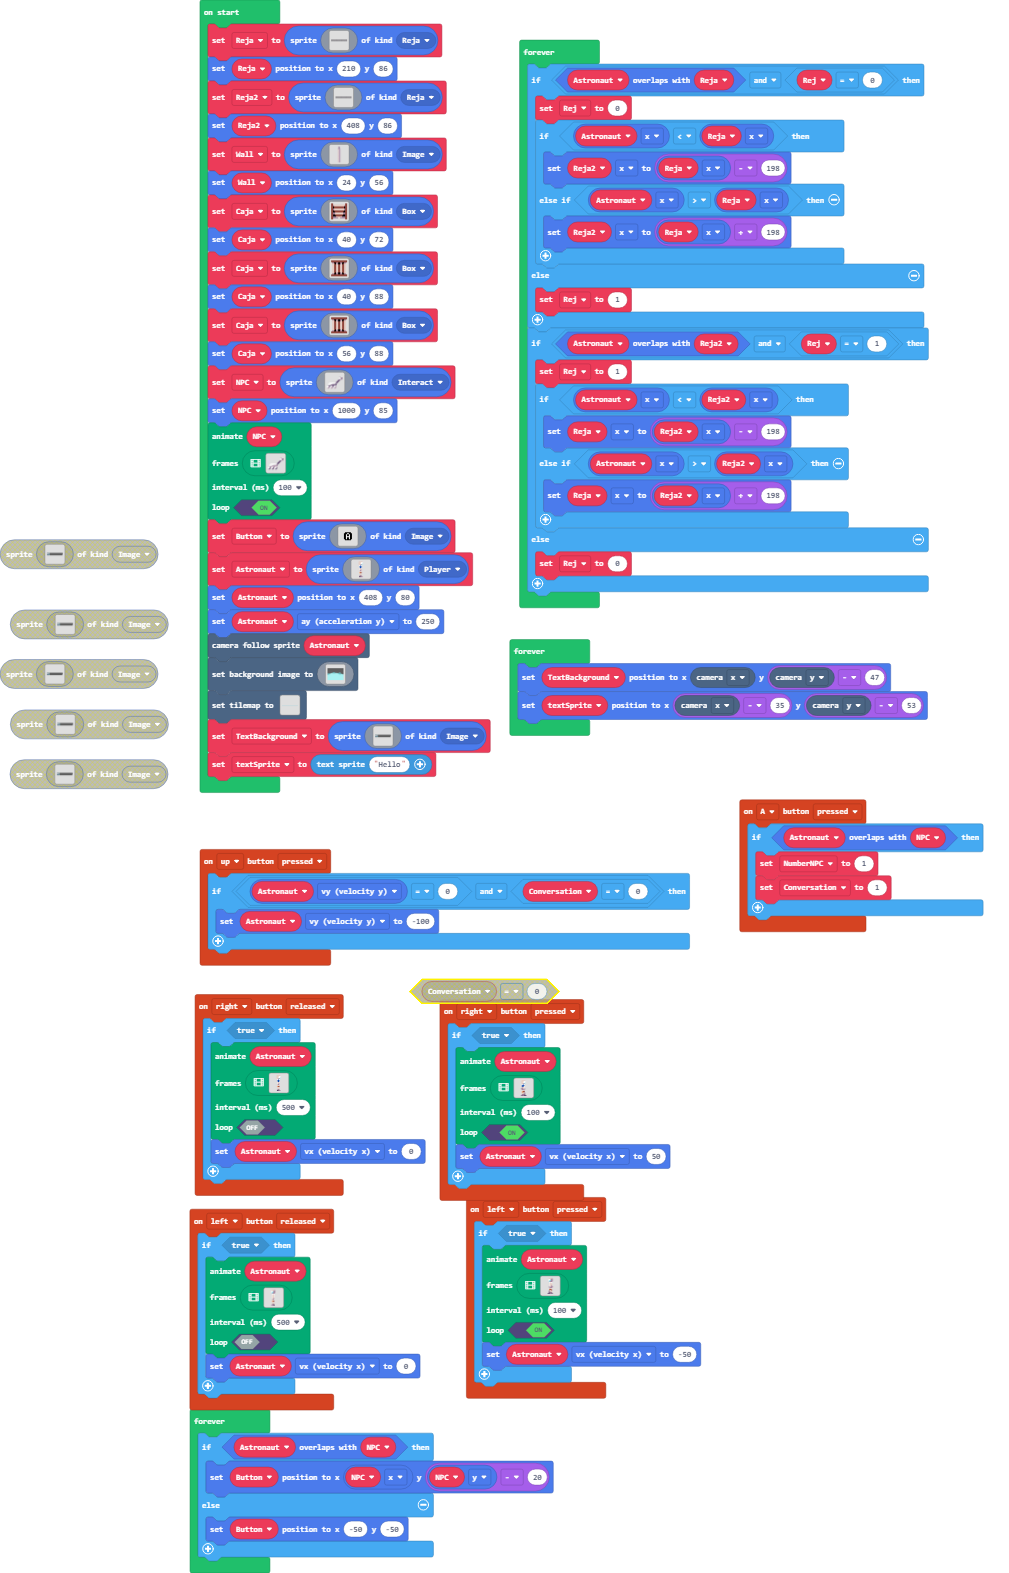
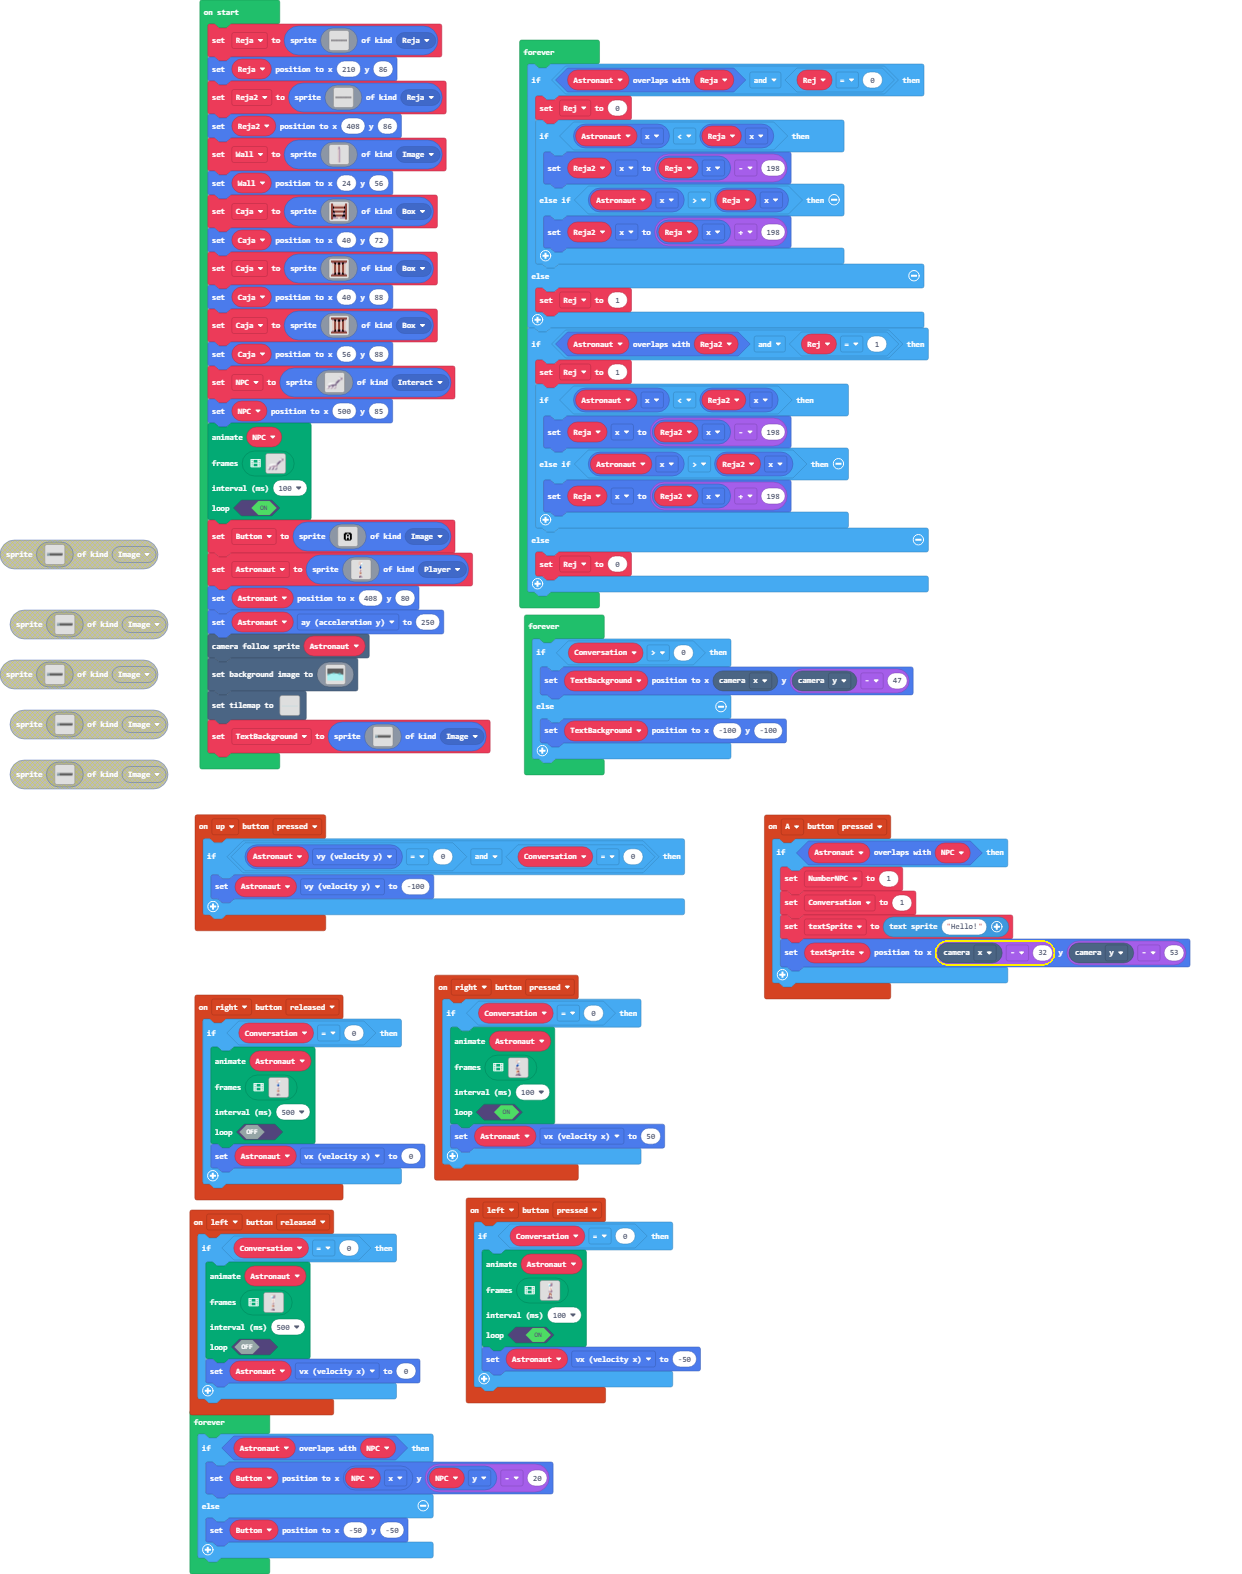
Update main.blocks, main.ts

diff --git a/main.ts b/main.ts
@@ -13,10 +13,12 @@ controller.A.onEvent(ControllerButtonEvent.Pressed, function () {
     if (Astronaut.overlapsWith(NPC)) {
         NumberNPC = 1
         Conversation = 1
+        textSprite = textsprite.create("Hello!")
+        textSprite.setPosition(scene.cameraProperty(CameraProperty.X) - 32, scene.cameraProperty(CameraProperty.Y) - 53)
     }
 })
 controller.left.onEvent(ControllerButtonEvent.Pressed, function () {
-    if (true) {
+    if (Conversation == 0) {
         animation.runImageAnimation(
         Astronaut,
         [img`
@@ -159,7 +161,7 @@ controller.left.onEvent(ControllerButtonEvent.Pressed, function () {
     }
 })
 controller.right.onEvent(ControllerButtonEvent.Released, function () {
-    if (true) {
+    if (Conversation == 0) {
         animation.runImageAnimation(
         Astronaut,
         [img`
@@ -203,7 +205,7 @@ controller.right.onEvent(ControllerButtonEvent.Released, function () {
     }
 })
 controller.left.onEvent(ControllerButtonEvent.Released, function () {
-    if (true) {
+    if (Conversation == 0) {
         animation.runImageAnimation(
         Astronaut,
         [img`
@@ -247,7 +249,7 @@ controller.left.onEvent(ControllerButtonEvent.Released, function () {
     }
 })
 controller.right.onEvent(ControllerButtonEvent.Pressed, function () {
-    if (true) {
+    if (Conversation == 0) {
         animation.runImageAnimation(
         Astronaut,
         [img`
@@ -390,6 +392,7 @@ controller.right.onEvent(ControllerButtonEvent.Pressed, function () {
     }
 })
 let Rej = 0
+let textSprite: TextSprite = null
 let NumberNPC = 0
 let Conversation = 0
 let Astronaut: Sprite = null
@@ -605,7 +608,7 @@ NPC = sprites.create(img`
     11bbb.11bbb.11bbb............
     .bbb...bbb...bbb.............
     `, SpriteKind.Interact)
-NPC.setPosition(1000, 85)
+NPC.setPosition(500, 85)
 animation.runImageAnimation(
 NPC,
 [img`
@@ -1908,7 +1911,6 @@ let TextBackground = sprites.create(img`
[1 lines of base64/hex data omitted]
     .11111111111111111111111111111111111111111111111111111111111111111111111111111111111111111111111111111111111111111111111111111111111111111111111111111111111111.
     `, SpriteKind.Image)
-let textSprite: Sprite = textsprite.create("Hello")
 forever(function () {
     if (Astronaut.overlapsWith(Reja) && Rej == 0) {
         Rej = 0
@@ -1932,8 +1934,11 @@ forever(function () {
     }
 })
 forever(function () {
-    TextBackground.setPosition(scene.cameraProperty(CameraProperty.X), scene.cameraProperty(CameraProperty.Y) - 47)
-    textSprite.setPosition(scene.cameraProperty(CameraProperty.X) - 35, scene.cameraProperty(CameraProperty.Y) - 53)
+    if (Conversation > 0) {
+        TextBackground.setPosition(scene.cameraProperty(CameraProperty.X), scene.cameraProperty(CameraProperty.Y) - 47)
+    } else {
+        TextBackground.setPosition(-100, -100)
+    }
 })
 forever(function () {
     if (Astronaut.overlapsWith(NPC)) {
